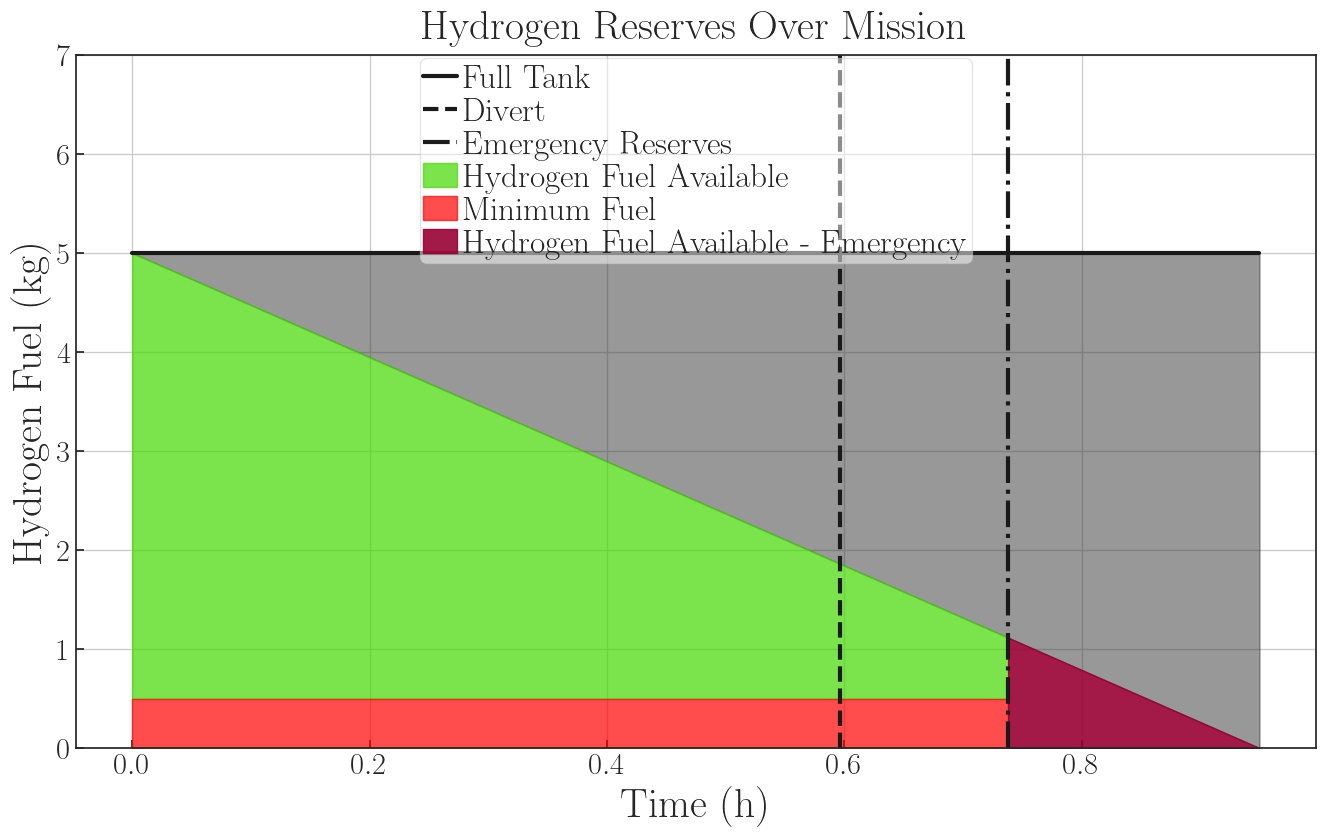
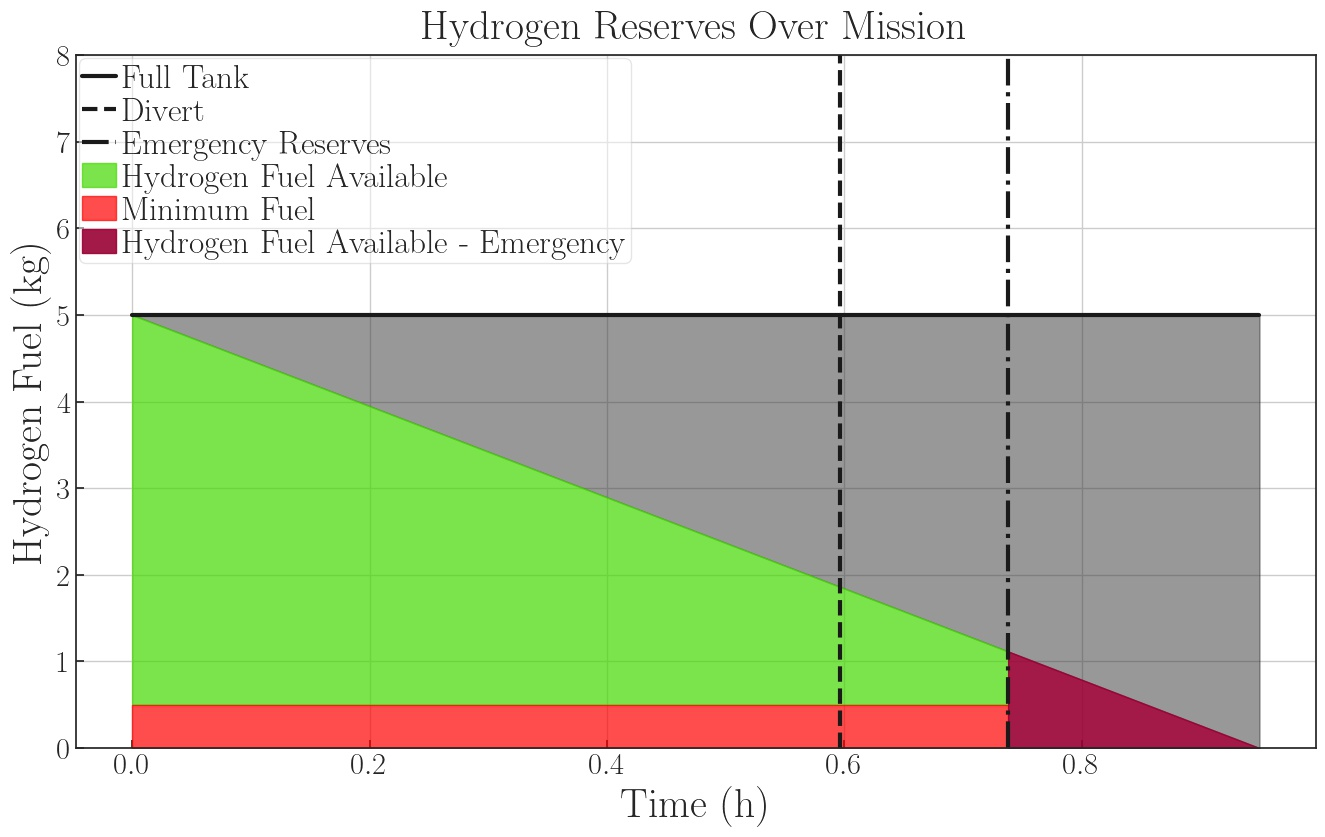
Added correct values to VnD
TVG 04.22.2021

diff --git a/Vn_Diagram/VnD.py b/Vn_Diagram/VnD.py
@@ -4,7 +4,17 @@ import numpy as np
 import matplotlib.pyplot as plt
 import sys
 import os
+sys.path.append("../Utilities")
 savedir = os.path.abspath(os.path.dirname(__file__))
+
+try:
+    import formatfigures
+    formatfigures.formatsubfigures()
+    latex = True
+except:
+    pass
+    print("Not using latex formatting")
+    latex = False
 
 
 ###################### Turning Diagram ######################
@@ -15,17 +25,19 @@ from VnDF import ALLF
 from VnDF import ALtr
 
 #### Parameters
-n_max =  ## Put Value HERE
-n_min =  ## Put Value HERE
-W =  ## Put Value HERE
-S =  ## Put Value HERE
-rho =  ## Put Value HERE
-CL_max =  ## Put Value HERE
-CL_min =  ## Put Value HERE
-unit =  ## Put Value HERE
+W =  2922.5 #lbf = 13000 N
+n_max =  2.1+(24000/(W+10000)) # formula provided by FAR part 23
+n_min =  0.4*n_max # formula provided by FAR part 23
+S =  172.27 #ft^2
+rho = 0.00237 #slug/ft^3
+CL_max = 1.8 # Based on FS data
+CL_min = 1.6 # Best guess
+unit = 'e' # English units
 
 #### Calculation
-Vmax =  200; V = np.linspace(0,Vmax,400) # Vmax can be taken as V_D  ## Put Value HERE for Vmax
+VC = 203.41 #ft/s = 62 m/s
+VD = VC/0.8 # Best guess
+Vmax =  VD; V = np.linspace(0,Vmax,400) # Vmax can be taken as V_D  ## Put Value HERE for Vmax
 Vs = Cal_Vs(W,S,rho,CL_max)
 VA = np.sqrt(n_max)*Vs
 n_SL = SLLF(V, n_max)
@@ -34,7 +46,7 @@ Rmin_SL = SLtr(V, n_max, unit)
 Rmin_AL = ALtr(V, Vs, unit)
 
 #### Make plots
-g, (ax1, ax2) = plt.subplots(2, sharex=True, sharey=False, figsize=(10,4))
+g, (ax1, ax2) = plt.subplots(2, sharex=True, sharey=False, figsize=(10,10))
 ########## Subplot 1
 ax1.plot(V, n_SL, 'r-', V, n_AL, 'b--')
 ax1.set_ylabel(r'Load Factor $n$') 
@@ -69,7 +81,7 @@ n_negative = np.maximum(-(Vsnn/Vsn)**2,n_min)
 #### Plot Preparation
 xr = [Vsp, Vsp, Vsn, Vsn]; yr = [1, 0, 0, -1]
 #### Make plots
-plt.figure(figsize=(9, 3))
+plt.figure(figsize=(10,10))
 plt.plot(Vsnn, n_positive, 'k', Vsnn, n_negative, 'k')
 plt.plot(xr,yr,'r-')
 plt.axis([0, 200, -2, 2])
@@ -89,17 +101,19 @@ plt.show()
 ###################### Gust Diagram ######################  
 #### Continue to use V in section 1
 from VnDF import Calc_Vgust
-c_av = ## Put Value HERE
-CLa = ## Put Value HERE
-VC = ## Put Value HERE
-VD = ## Put Value HERE
-VB = ## Put Value HERE
+c_av = 4.15 #ft
+CLa = 2*np.pi #per rad
+mu = 2*W/S/(rho*c_av*2*np.pi*32.17)
+Kg = 0.88*mu/(5.4+mu)
+VS1 = 88.58 #ft/s = 27 m/s
+Uref = 10 #ft/s (reference gust speed)
+VB = VS1*(1+Kg*Uref*VC*CLa/(498*W))**(0.5)
 n_GD = []; V_GD = [VB,VC,VD]; condition = ['B','C','D']
 for Vr,c in zip(V_GD,condition):
     n_GD.append(Calc_Vgust(Vr,W,S,rho,c_av,CLa,c))
 n_GD.insert(0,1); V_GD.insert(0,0)
 #### Make plots
-plt.figure(figsize=(9, 3))
+plt.figure(figsize=(10,10))
 plt.plot(V_GD,n_GD,'k') # for positive Ude
 plt.plot(V_GD,2*np.ones(len(n_GD))-n_GD,'k') # for negative Ude
 plt.axis([0, 200, -1, 3])
@@ -116,7 +130,7 @@ plt.show()
 ##########################################################
 
 ###################### Composite V-n Diagram ######################  
-plt.figure(figsize=(12, 4))
+plt.figure(figsize=(10,12))
 #### From PART B
 plt.plot(Vsnn, n_positive, 'k', Vsnn, n_negative, 'k')
 plt.plot(xr,yr,'r-')

diff --git a/Python_Codes/h2_reserve_diagram.py b/Python_Codes/h2_reserve_diagram.py
@@ -65,14 +65,14 @@ plt.fill_between(t_vec[0:len(t_vec)-1]/3600, e_reserve*numpy.ones(numpy.size(t_v
 plt.fill_between(t_vec[len(t_vec)-2:len(t_vec)]/3600, e_time[len(t_vec)-2:len(t_vec)],color=(153/255,0,51/255),alpha=0.9,label="Hydrogen Fuel Available - Emergency")
 plt.plot(t_vec/3600, e_total*numpy.ones(numpy.size(t_vec)), 'k',label = "Full Tank")
 
-plt.plot((2148.06/3600, 2148.06/3600),(0,7),'k--',label="Divert")
-plt.plot((t_vec[len(t_vec)-2]/3600, t_vec[len(t_vec)-2]/3600),(0,7),'k-.',label="Emergency Reserves")
-plt.ylim((0,7))
+plt.plot((2148.06/3600, 2148.06/3600),(0,8),'k--',label="Divert")
+plt.plot((t_vec[len(t_vec)-2]/3600, t_vec[len(t_vec)-2]/3600),(0,8),'k-.',label="Emergency Reserves")
+plt.ylim((0,8))
 plt.ylabel("Hydrogen Fuel (kg)")
 plt.xlabel("Time (h)")
 plt.title("Hydrogen Reserves Over Mission")
 
-plt.legend(loc='upper center')
+plt.legend(loc='best')
 # plt.savefig('./Figures/battery_energy.png', bbox_inches='tight')
 time_emgcy = tf - t_vec[len(t_vec)-2] + 30000/P_emgcy*3600
 print("Emergency Fuel Reserve Time (Hydrogen Fuel + Battery) = ", time_emgcy/60,"minutes")
